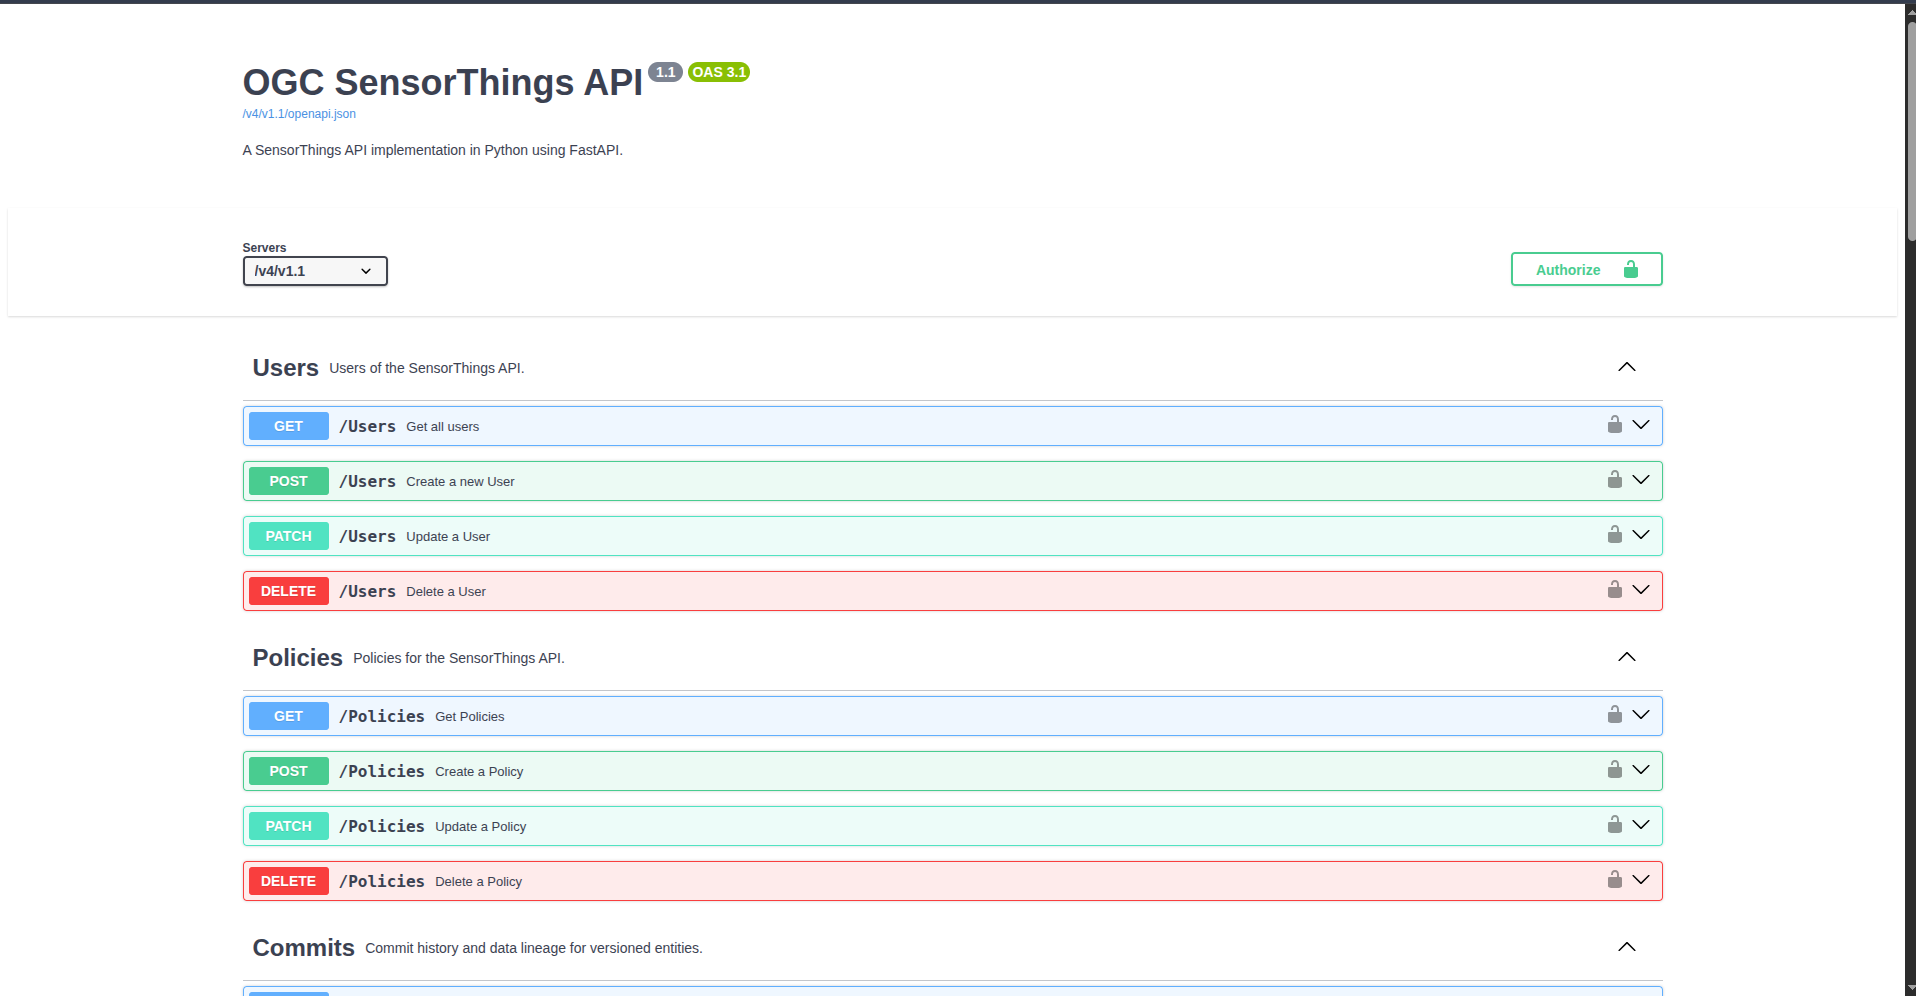
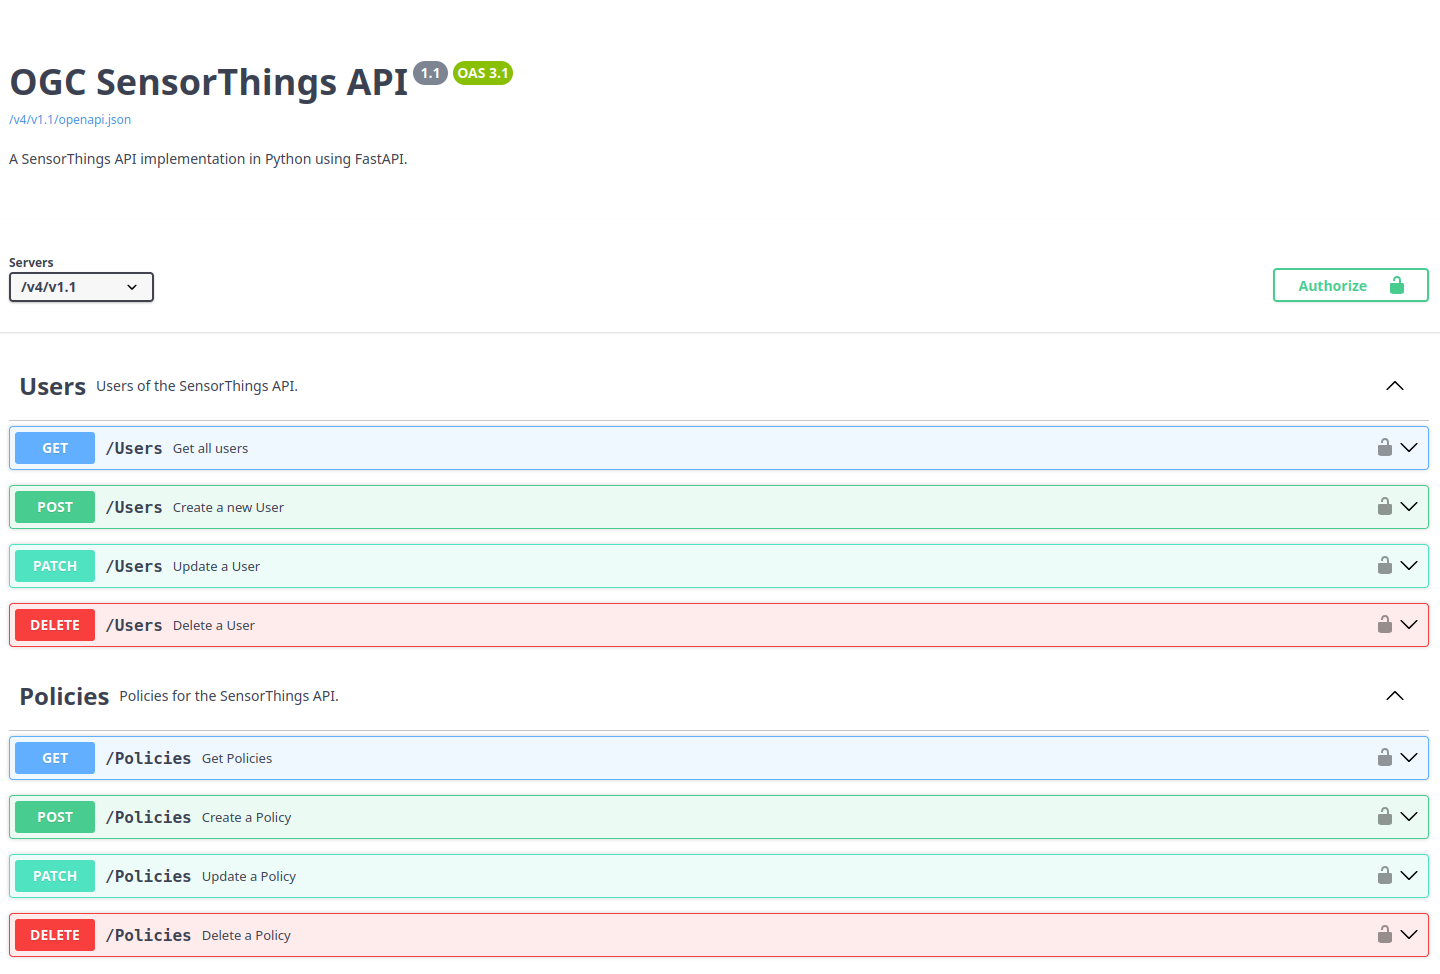
Update documentation and images; upgrade Docker images for database, API, Grafana, GUI, and dummy data

diff --git a/web/docs/basic/view_data.md b/web/docs/basic/view_data.md
@@ -101,7 +101,7 @@ Configure the result options as follows:
 Set the panel title to the name of the datastream you want to display. For example:
 
 ```txt
-INTERNAL_TEMPERATURE_GROUP_010
+TEMPERATURE_GROUP_010
 ```
 
 ![Configure observations query and panel title](../images/grafana/10.png)
@@ -111,12 +111,12 @@ To visualize observations from a specific datastream, add an entity filter with 
 - **Related entity**: `Datastreams`
 - **Entity field**: `Name`
 - **Operator**: `Equals`
-- **Value**: the name of the datastream, for example `INTERNAL_TEMPERATURE_GROUP_010`
+- **Value**: the name of the datastream, for example `TEMPERATURE_GROUP_010`
 
 The plugin generates a SensorThings API query automatically. For example, the query preview may look like this:
 
 ```txt
-/Observations?$filter=Datastream/name eq 'INTERNAL_TEMPERATURE_GROUP_010' and phenomenonTime ge '${__from:date:iso}' and phenomenonTime le '${__to:date:iso}'&$orderby=phenomenonTime desc
+/Observations?$filter=Datastream/name eq 'TEMPERATURE_GROUP_010' and phenomenonTime ge '${__from:date:iso}' and phenomenonTime le '${__to:date:iso}'&$orderby=phenomenonTime desc
 ```
 
 The Grafana time range is automatically applied using the `phenomenonTime` property. You can change the time interval from the time picker in the top-right corner of the dashboard.
@@ -133,7 +133,7 @@ When the panel is ready, click **Save dashboard**. Enter a dashboard title, for 
 
 ![Save Grafana dashboard](../images/grafana/13.png)
 
-The dashboard now displays the `INTERNAL_TEMPERATURE_GROUP_010` time series with temperature values expressed in degrees Celsius.
+The dashboard now displays the `TEMPERATURE_GROUP_010` time series with temperature values expressed in degrees Celsius.
 
 ![Grafana dashboard with temperature time series](../images/grafana/14.png)
 

diff --git a/web/docs/basic/traveltime.md b/web/docs/basic/traveltime.md
@@ -105,7 +105,7 @@ You should see the following response:
 ### :lucide-play: Retrieve data with commit message
 To access the data, navigate to the interactive documentation at: <code>/Things</code> and execute a GET request to retrieve the list of Things in the system with the following parameters:
 
-    $filter=name eq 'Lugano Lake'&$expand=commit
+    $filter=name eq 'Lugano Lake'&$expand=Commit
 
 You should see the uopdated `Thing` with the updated properties and the commit message associated with the last update, which should be something like:
 
